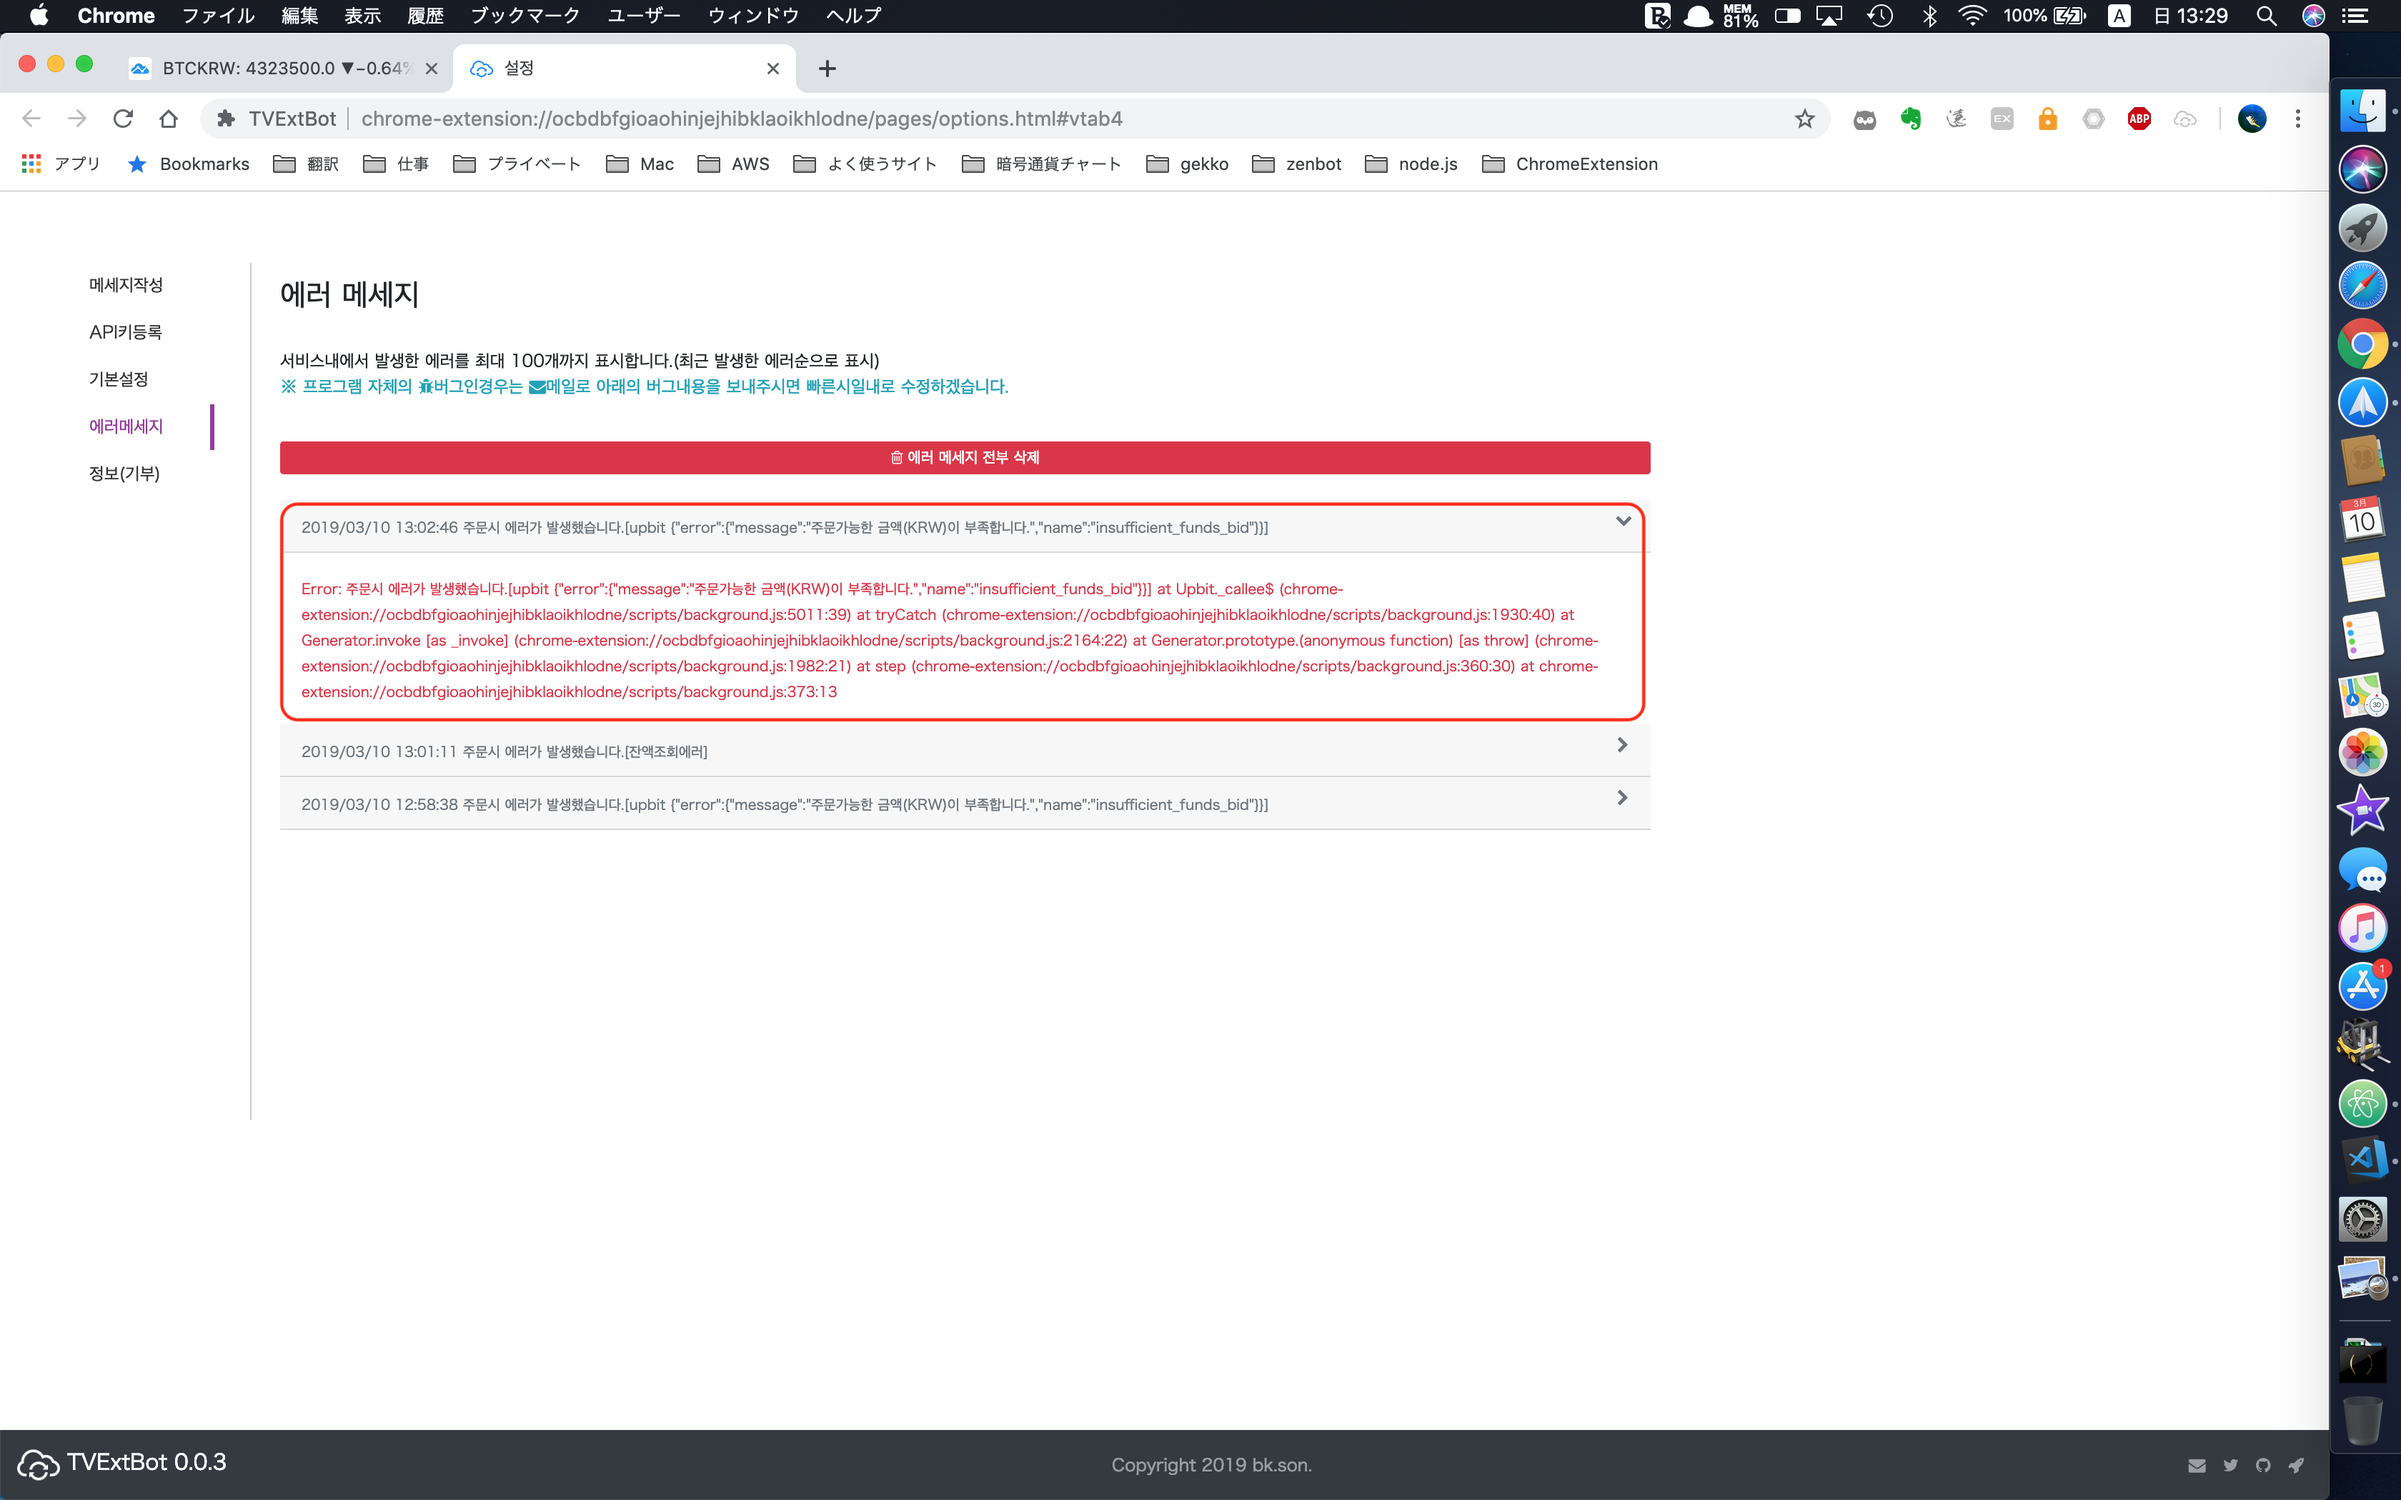
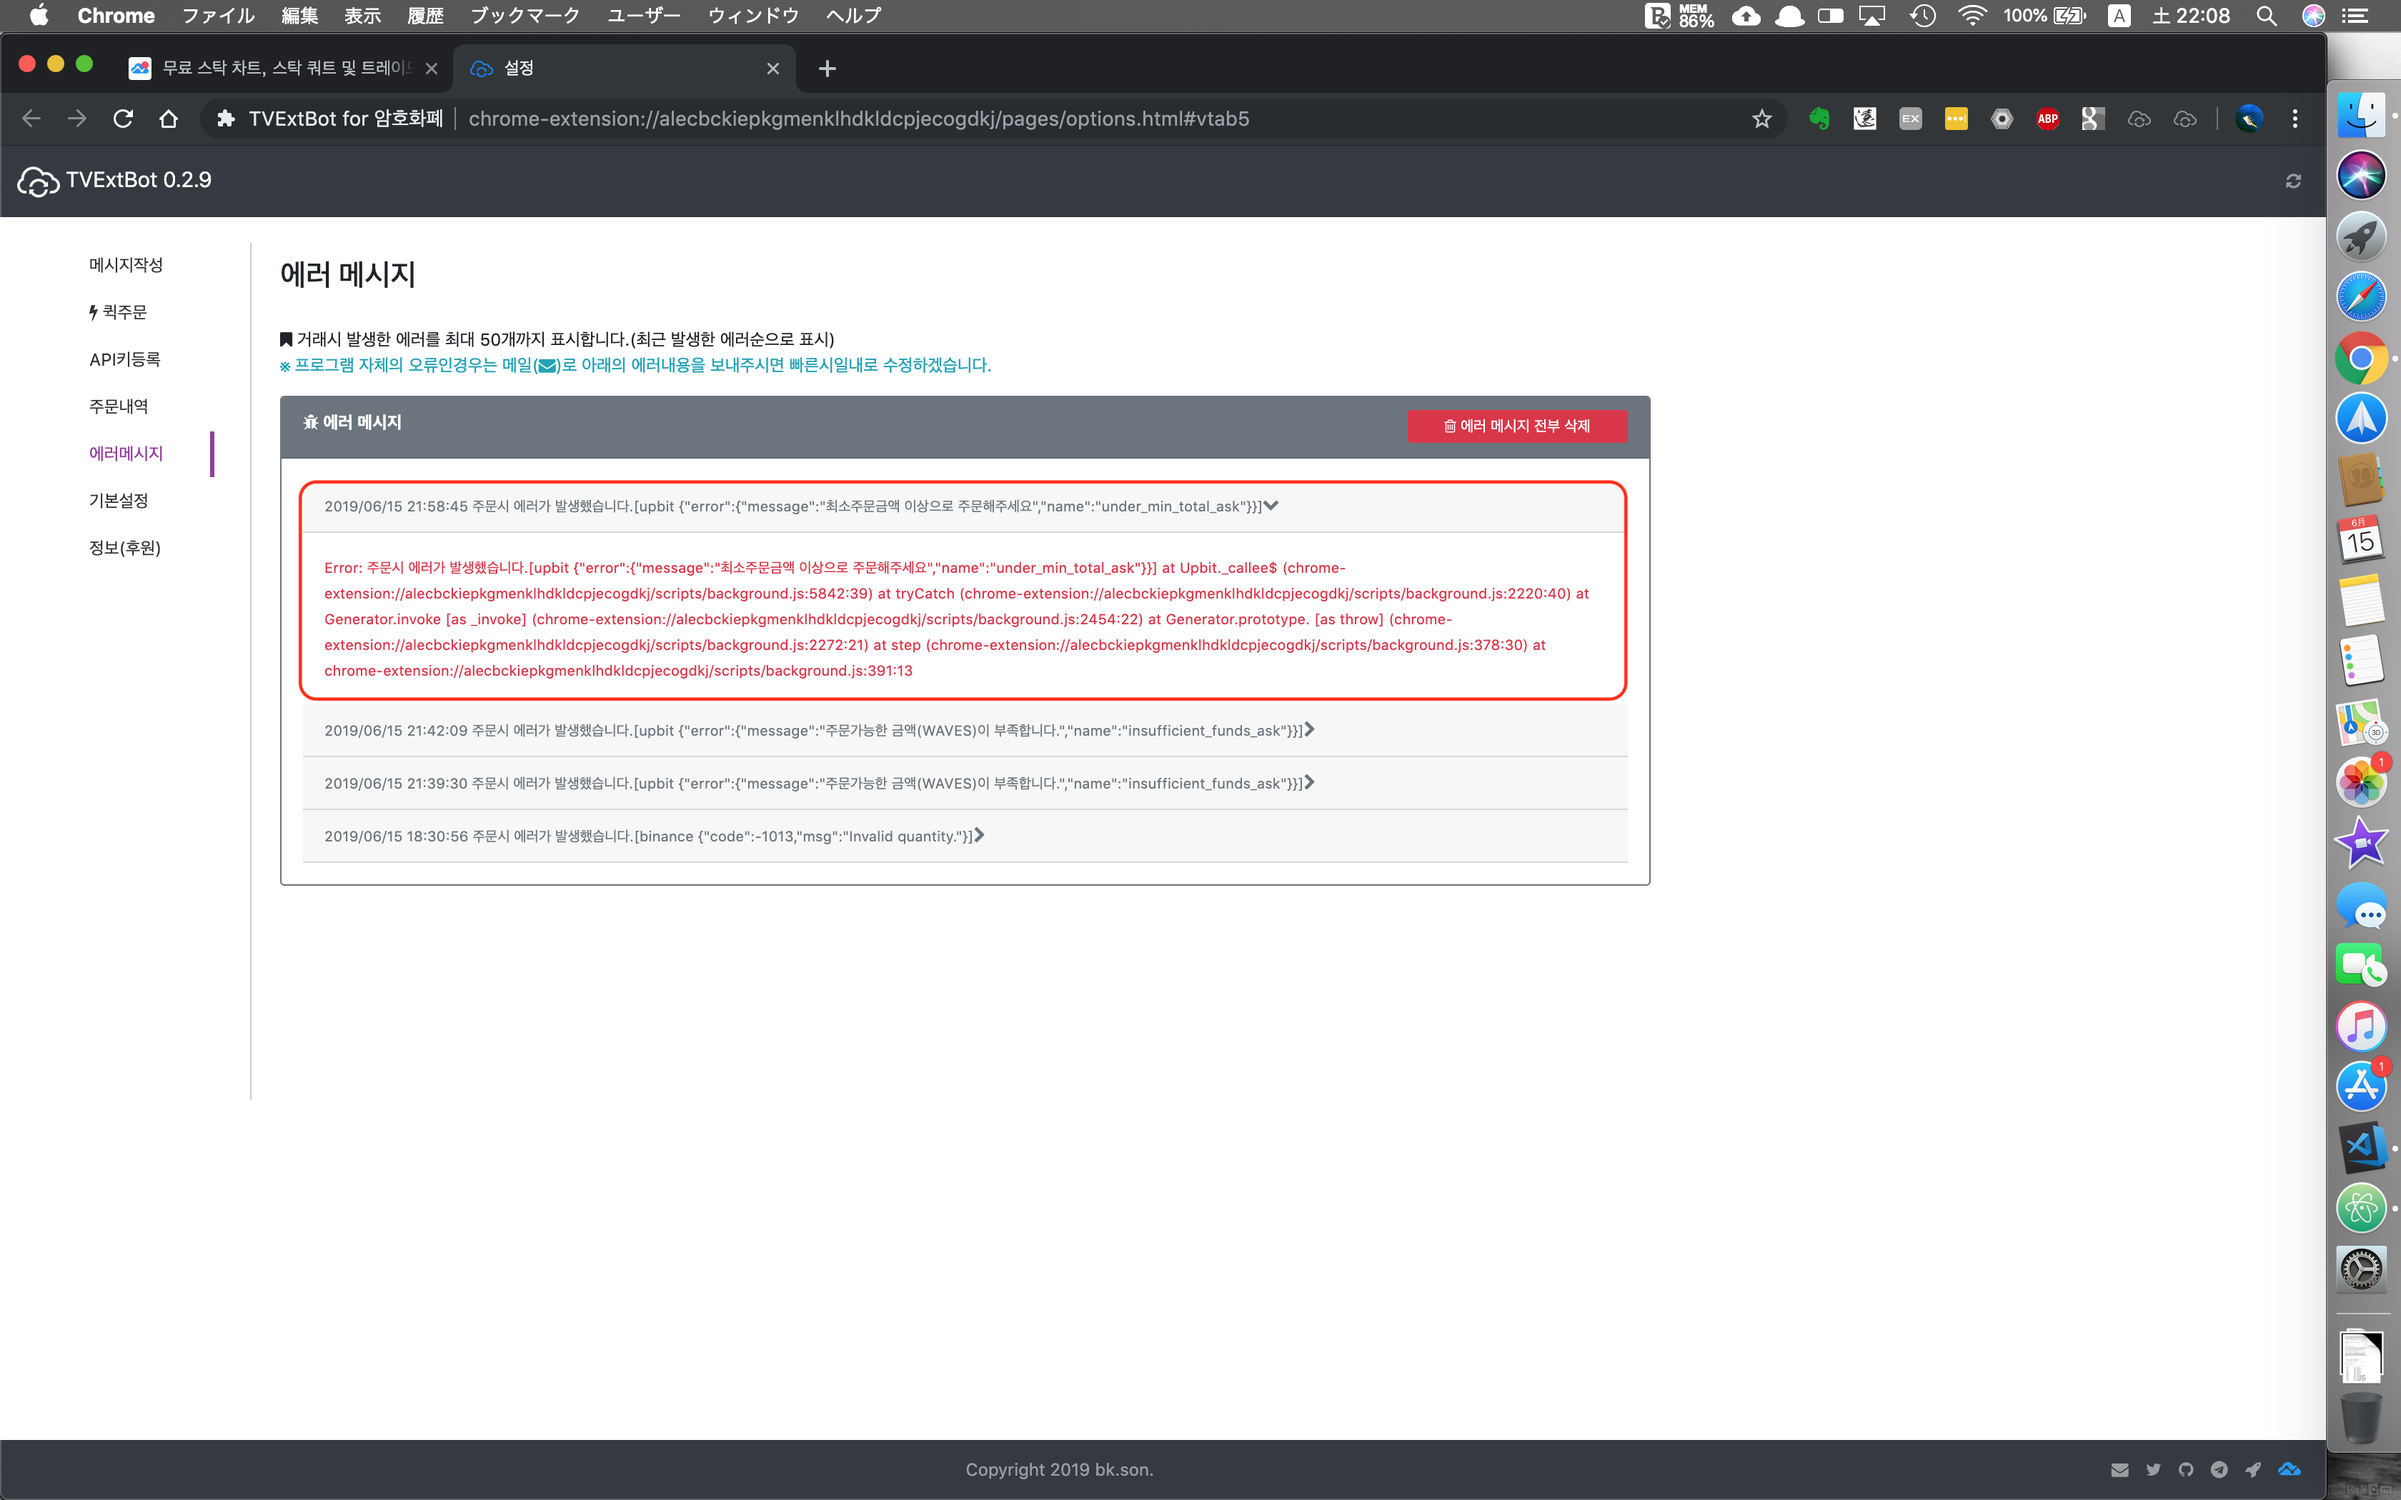
rebuilding site 2019年 6月15日 土曜日 22時13分09秒 JST

Changed region(s): [[0.0, 0.0, 1.0, 1.0]]

diff --git a/post/troubleshooting/index.html b/post/troubleshooting/index.html
@@ -332,7 +332,7 @@ if (!doNotTrack) {
     
 </figure></p>
 
-<p>2.최근 발생한 에러순으로 서비스내에서 발생한 에러를 최대 100개까지 표시합니다.<br>
+<p>2.최근 발생한 에러순으로 서비스내에서 발생한 에러를 최대 50개까지 표시합니다.<br>
 &nbsp;&nbsp;아래와 같은 경우 매수시 잔액이 부족하여 발생한 에러임을 확인 할 수 있습니다.<br>
 &nbsp;&nbsp;문제를 해결한 후 에러내용을 삭제해 주세요.<br>
 <h5><span class="text-danger">※ 프로그램 자체의 <i class="fa fa-bug"></i>버그인경우는 <i class="fa fa-envelope"></i>메일로 아래의 버그내용을 보내주시면 빠른시일내로 수정하겠습니다. </span></h5>
